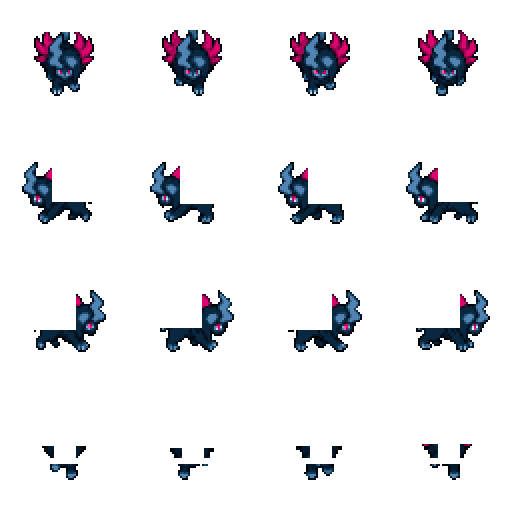
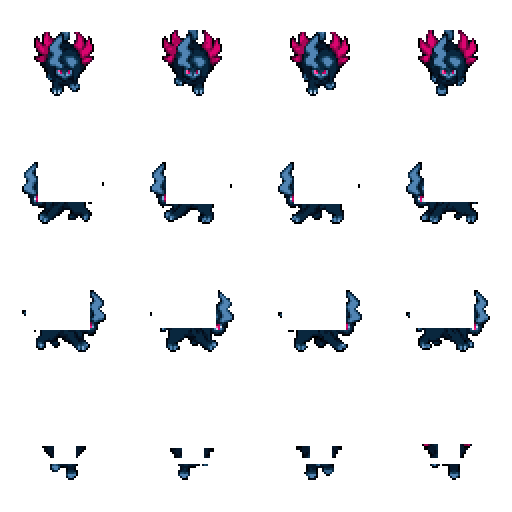
Move Absol riders forward toward the head

diff --git a/tools/build_absol_mounts.py b/tools/build_absol_mounts.py
@@ -10,18 +10,18 @@ DIRECTIONS = ('down', 'left', 'right', 'up')
 # Move the artwork and its approved rider rig up one logical pixel to put
 # paws on the same world ground line as Cyclizar. Players retain 64px frames.
 # Per-frame seat offsets follow the torso rather than freezing the rider in
-# world space. Side seats are further back so the head/feathers have room.
+# world space. Side seats sit over the shoulders, closer to the head.
 OFFSETS = {
     'mega_absol': (
         ((0,-46),(0,-48),(0,-48),(0,-46)),
-        ((16,-24),(18,-26),(16,-24),(18,-22)),
-        ((-16,-24),(-16,-22),(-18,-24),(-18,-26)),
+        ((4,-24),(6,-26),(4,-24),(6,-22)),
+        ((-4,-24),(-4,-22),(-6,-24),(-6,-26)),
         ((0,-18),(0,-16),(-2,-16),(0,-14)),
     ),
     'mega_absol_z': (
         ((0,-48),(0,-50),(0,-48),(0,-50)),
-        ((20,-22),(20,-20),(20,-20),(22,-22)),
-        ((-20,-22),(-22,-24),(-20,-22),(-20,-24)),
+        ((6,-22),(6,-20),(6,-20),(8,-22)),
+        ((-6,-22),(-8,-24),(-6,-22),(-6,-24)),
         ((0,-18),(0,-16),(-2,-18),(-2,-20)),
     ),
 }

diff --git a/CHANGELOG.md b/CHANGELOG.md
@@ -2,6 +2,8 @@
 
 ## Unreleased
 
+- Move both Absol riders forward over the shoulders in side views, preserving the complete seated pose and synchronized walking motion.
+
 - Preserve the complete seated player silhouette on both Absol mounts in side views, including hips, trousers and shoes, through every walking phase.
 
 - Replace unused Razz/Bluk Berries, Green Apricorn, X items and Route 11 Escape Rope pickups with progression-appropriate berries, healing items and Great Balls; preserve collected pickup progress.
